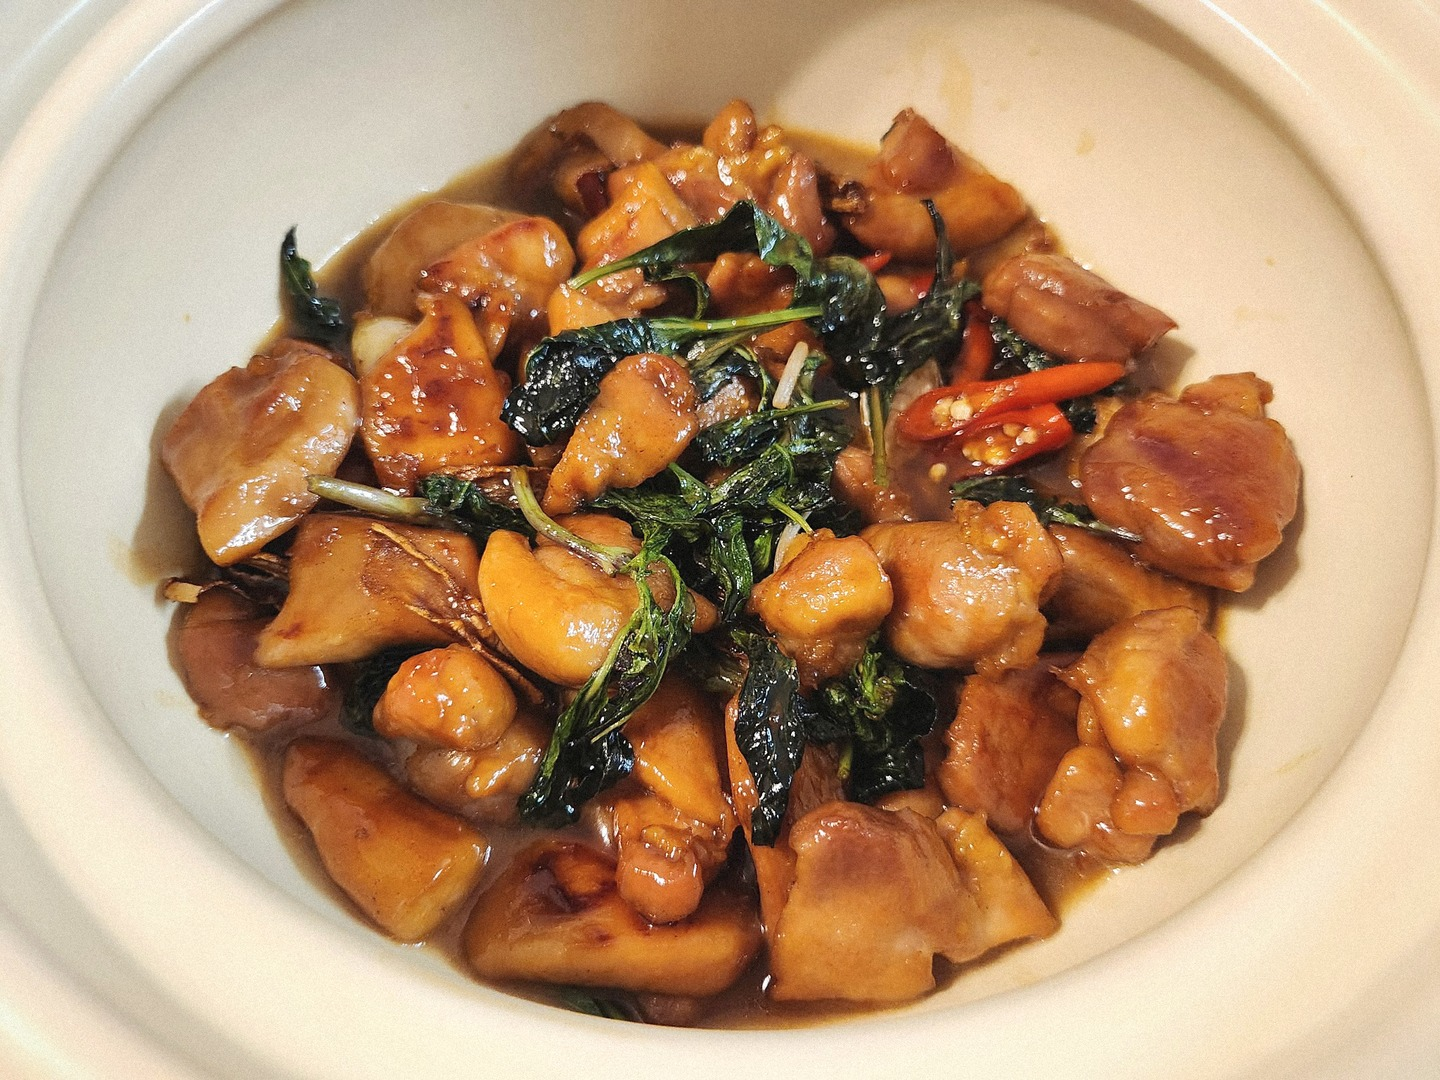
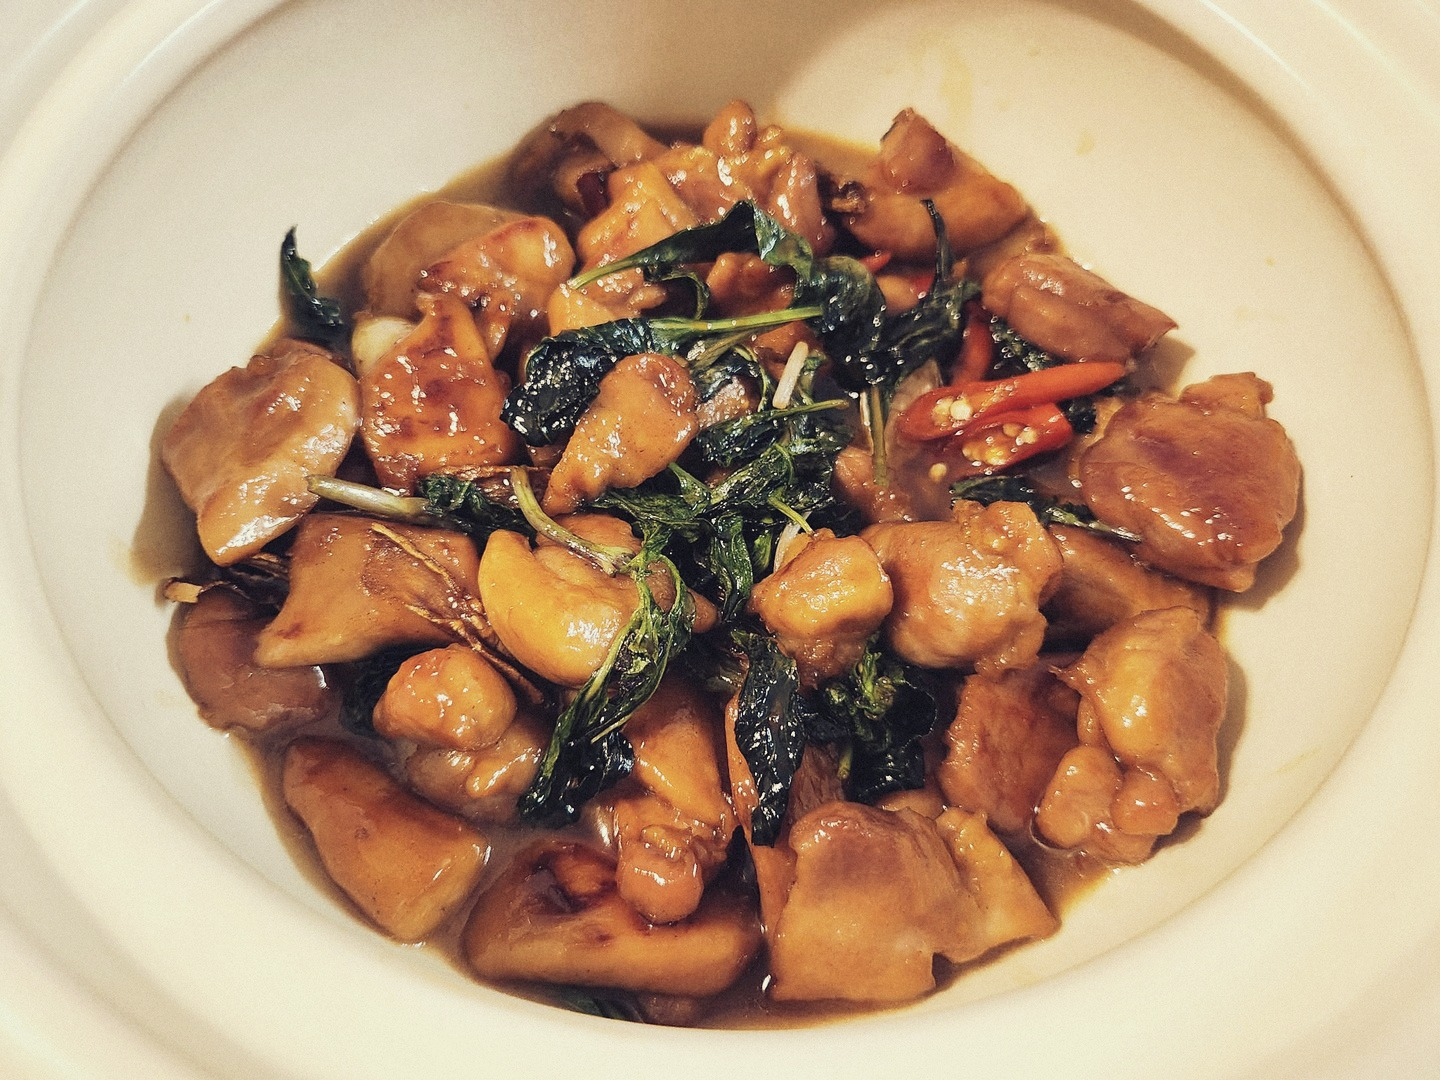
Post at 19:00 US Eastern, start today with 紅燒牛肉麵/乾炒牛河/三杯雞
- Schedule by local date in America/New_York (handles DST); cron runs at
  both 23:00 and 00:00 UTC and the script decides
- Add priority queue, set-priority and schedule commands
- Apply Crema to the three dishes previously left unfiltered

diff --git a/scripts/publish_ig.py b/scripts/publish_ig.py
@@ -1,8 +1,10 @@
 """自動發 IG：每次執行最多發一篇，從 output/ 依序挑還沒發過的成品圖，貼文文字只放菜名。
 
-設計成在 GitHub Actions 上每天跑一次（.github/workflows/ig-publish.yml），由這支腳本
-自己判斷「距離上次發文滿 POST_INTERVAL_DAYS 天了沒」，沒滿就什麼都不做——GitHub 的
-cron 沒辦法直接表達「每 5 天」，所以間隔由這裡控制。只用標準函式庫，Actions 上不用裝套件。
+設計成在 GitHub Actions 上每天跑（.github/workflows/ig-publish.yml），由這支腳本自己判斷
+「是不是到了發文時間」：上次發文那天往後算 POST_INTERVAL_DAYS 天、當地 POST_TIME（預設
+美東 19:00）。GitHub 的 cron 只能寫 UTC、也不會處理夏令時間，所以 workflow 每天跑兩次
+（UTC 23:00 與 00:00，分別是夏令/冬令時間的美東 19:00），時間判斷一律在這裡用當地時區做。
+只用標準函式庫，Actions 上不用裝套件。
 
 發文用 Instagram 官方 Content Publishing API（graph.facebook.com）：
     1) POST /{ig-user-id}/media         image_url + caption -> 建立 container
@@ -11,9 +13,11 @@ cron 沒辦法直接表達「每 5 天」，所以間隔由這裡控制。只用
 API 會自己去抓 image_url，所以圖片必須放在公開網址（IMAGE_BASE_URL，例如 GitHub Pages）。
 
 發文進度記在 output/publish_state.json：
-    {"posted": {"三杯雞": {"posted_at": "...", "media_id": "...", "source": "api"}}, "not_before": null}
-- source 為 "manual" 代表是使用者自己在 Business Suite 發/排的，只是標記起來避免重複發。
-- not_before（ISO 時間）可選：在這個時間之前不自動發，用來避開 Business Suite 已經排好的貼文。
+    {"posted": {"三杯雞": {"posted_at": "...", "media_id": "...", "source": "api"}},
+     "not_before": null, "priority": ["紅燒牛肉麵"]}
+- source 為 "manual" 代表是在別處手動發過的，只是標記起來避免重複發。
+- not_before（ISO 時間）可選：在這個時間之前不自動發。
+- priority 可選：這些菜名插隊排在最前面（依列出的順序），其餘照 manifest 順序。
 
 子命令：
     next                        印出下一篇會發哪張、什麼時候發（不需要 token）
@@ -21,7 +25,8 @@ API 會自己去抓 image_url，所以圖片必須放在公開網址（IMAGE_BAS
     publish [--force]           到時間就發一篇；--force 忽略間隔立即發
     mark-posted <菜名>...       把手動發過/排過的菜名標記成已發
     unmark <菜名>...            取消標記
-    set-not-before <ISO時間>    設定最早自動發文時間（"none" 取消）
+    set-not-before <ISO時間>    設定最早自動發文時間（當地時間；"none" 取消）
+    set-priority <菜名>...      指定優先發的菜名與順序（"none" 清空）
 
 環境變數（publish 需要）：
     IG_USER_ID          Instagram 商業帳號的 ID
@@ -29,6 +34,8 @@ API 會自己去抓 image_url，所以圖片必須放在公開網址（IMAGE_BAS
     IMAGE_BASE_URL      output/ 圖片的公開網址前綴，例如 https://<帳號>.github.io/<repo>/output
     GRAPH_API_VERSION   預設 v26.0
     POST_INTERVAL_DAYS  預設 5
+    POST_TIME           預設 19:00（當地時間）
+    POST_TIMEZONE       預設 America/New_York（使用者在美東，會自動處理夏令/冬令時間）
 """
 
 import argparse
@@ -40,21 +47,21 @@ import time
 import urllib.error
 import urllib.parse
 import urllib.request
-from datetime import datetime, timedelta, timezone
+from datetime import datetime, time as dtime, timedelta
 from pathlib import Path
+from zoneinfo import ZoneInfo
 
 PROJECT_ROOT = Path(__file__).resolve().parent.parent
 OUTPUT_DIR = PROJECT_ROOT / "output"
 MANIFEST_PATH = OUTPUT_DIR / "manifest.json"
 STATE_PATH = OUTPUT_DIR / "publish_state.json"
 
-TAIPEI = timezone(timedelta(hours=8))
-# GitHub cron 常延遲幾十分鐘，留半天緩衝，避免「差 10 分鐘滿 5 天」就整整晚一天
-INTERVAL_SLACK = timedelta(hours=12)
+LOCAL_TZ = ZoneInfo(os.environ.get("POST_TIMEZONE", "America/New_York"))
+POST_TIME = dtime.fromisoformat(os.environ.get("POST_TIME", "19:00"))
 
 
 def _now() -> datetime:
-    return datetime.now(TAIPEI)
+    return datetime.now(LOCAL_TZ)
 
 
 def _load_json(path: Path, default):
@@ -65,6 +72,7 @@ def _load_state() -> dict:
     state = _load_json(STATE_PATH, {})
     state.setdefault("posted", {})
     state.setdefault("not_before", None)
+    state.setdefault("priority", [])
     return state
 
 
@@ -87,22 +95,31 @@ def _caption(label: str) -> str:
     return re.sub(r"\d+$", "", label).strip() or label
 
 
+def _ordered_queue(state: dict) -> list[str]:
+    queue = _queue()
+    first = [l for l in state["priority"] if l in queue]
+    return first + [l for l in queue if l not in first]
+
+
 def _next_label(state: dict) -> str | None:
-    return next((l for l in _queue() if l not in state["posted"]), None)
+    return next((l for l in _ordered_queue(state) if l not in state["posted"]), None)
 
 
 def _next_due(state: dict) -> datetime | None:
-    interval = timedelta(days=float(os.environ.get("POST_INTERVAL_DAYS", "5")))
+    """下次發文時間 = 上次 API 發文那天 + 間隔天數的當地 POST_TIME；用「日期」算而不是精確
+    相隔幾小時，這樣 GitHub cron 延遲幾十分鐘也不會讓下一篇整整晚一天。"""
+    interval = int(os.environ.get("POST_INTERVAL_DAYS", "5"))
     api_times = [
-        datetime.fromisoformat(v["posted_at"])
+        datetime.fromisoformat(v["posted_at"]).astimezone(LOCAL_TZ)
         for v in state["posted"].values()
         if v.get("source") == "api" and v.get("posted_at")
     ]
     candidates = []
     if api_times:
-        candidates.append(max(api_times) + interval - INTERVAL_SLACK)
+        day = max(api_times).date() + timedelta(days=interval)
+        candidates.append(datetime.combine(day, POST_TIME, LOCAL_TZ))
     if state["not_before"]:
-        candidates.append(datetime.fromisoformat(state["not_before"]))
+        candidates.append(datetime.fromisoformat(state["not_before"]).astimezone(LOCAL_TZ))
     return max(candidates) if candidates else None
 
 
@@ -224,9 +241,39 @@ def cmd_set_not_before(args) -> None:
         state["not_before"] = None
     else:
         when = datetime.fromisoformat(args.when)
-        state["not_before"] = (when if when.tzinfo else when.replace(tzinfo=TAIPEI)).isoformat(timespec="minutes")
+        state["not_before"] = (when if when.tzinfo else when.replace(tzinfo=LOCAL_TZ)).isoformat(timespec="minutes")
     _save_state(state)
     print(f"not_before = {state['not_before']}")
+
+
+def cmd_set_priority(args) -> None:
+    state = _load_state()
+    if args.labels == ["none"]:
+        state["priority"] = []
+    else:
+        known = set(_queue())
+        missing = [l for l in args.labels if l not in known]
+        if missing:
+            raise SystemExit(f"output/ 找不到這些菜名：{missing}")
+        state["priority"] = args.labels
+    _save_state(state)
+    print(f"priority = {state['priority']}")
+
+
+def cmd_schedule(args) -> None:
+    """推算接下來每一篇的預計發文日（假設每次都準時發出）。"""
+    state = _load_state()
+    pending = [l for l in _ordered_queue(state) if l not in state["posted"]]
+    due = _next_due(state) or datetime.combine(_now().date(), POST_TIME, LOCAL_TZ)
+    if due < _now():
+        due = datetime.combine(_now().date(), POST_TIME, LOCAL_TZ)
+        if due < _now():
+            due += timedelta(days=1)
+    interval = timedelta(days=int(os.environ.get("POST_INTERVAL_DAYS", "5")))
+    for i, label in enumerate(pending[: args.limit]):
+        print(f"{(due + interval * i):%Y-%m-%d %a %H:%M %Z}  {label}")
+    if len(pending) > args.limit:
+        print(f"...（共 {len(pending)} 張）")
 
 
 def main() -> None:
@@ -246,8 +293,14 @@ def main() -> None:
     p.add_argument("labels", nargs="+")
     p.set_defaults(func=cmd_unmark)
     p = sub.add_parser("set-not-before")
-    p.add_argument("when", help='例如 "2026-10-25T19:00"（台灣時間），或 none')
+    p.add_argument("when", help='例如 "2026-10-25T19:00"（POST_TIMEZONE 的當地時間），或 none')
     p.set_defaults(func=cmd_set_not_before)
+    p = sub.add_parser("set-priority")
+    p.add_argument("labels", nargs="+")
+    p.set_defaults(func=cmd_set_priority)
+    p = sub.add_parser("schedule")
+    p.add_argument("--limit", type=int, default=10)
+    p.set_defaults(func=cmd_schedule)
     args = parser.parse_args()
     args.func(args)
 

diff --git a/CLAUDE.md b/CLAUDE.md
@@ -34,7 +34,7 @@
 - 裁切與濾鏡邏輯共用同一個 `process()` 函式，確保 preview 看到的畫面跟最終輸出完全一致。
 - 濾鏡參數（對比/飽和度/暖色調/暗角/銳化/顆粒感）以常數形式寫在 `process_photo.py` 開頭，參考一般食物攝影 IG 帳號常見做法：飽和度其實是略降而非推高、對比與清晰度放輕、暖色調幅度很小，走真實自然路線而非厚重濾鏡。
 - 裁切邏輯預設一律輸出橫向 4:3（`--orientation` 預設是 `landscape`），直幅原圖也會被裁成橫幅；原圖已經是橫幅 4:3 時通常只需要裁掉一點點多餘的邊。只有使用者明確要求 `--zoom > 1` 時才會額外裁緊、放大主體。
-- **IG Crema 濾鏡（100%）**：使用者要求發文時套 IG 的 Crema 濾鏡，但發文 API 不能套 app 內建濾鏡，所以 `apply_style()` 最後一步用 `apply_crema()` 自己做。參數（`CREMA_SATURATION`、`CREMA_CURVES`）是拿同一張照片的原圖與 IG 網頁版套 Crema 100% 的截圖逐像素擬合出來的，不是目測；強度 `CREMA_STRENGTH = 1.0` 是使用者選定的。2026-10-16 已對佇列中 31 張成品補套 Crema（套用前的版本備份在 `.cache/output_backup_before_crema/`）；已經發出去的 三杯雞、紅燒牛肉麵、乾炒牛河 維持原樣。**`output/` 裡的成品都已經含 Crema，不要再對它們套一次**，新照片走 `process()` 會自動套到。
+- **IG Crema 濾鏡（100%）**：使用者要求發文時套 IG 的 Crema 濾鏡，但發文 API 不能套 app 內建濾鏡，所以 `apply_style()` 最後一步用 `apply_crema()` 自己做。參數（`CREMA_SATURATION`、`CREMA_CURVES`）是拿同一張照片的原圖與 IG 網頁版套 Crema 100% 的截圖逐像素擬合出來的，不是目測；強度 `CREMA_STRENGTH = 1.0` 是使用者選定的。2026-10-16 已對 `output/` 全部 34 張成品補套 Crema（套用前的版本備份在 `.cache/output_backup_before_crema/`）。**`output/` 裡的成品都已經含 Crema，不要再對它們套一次**，新照片走 `process()` 會自動套到。
 - 以上都是固定參數/邏輯，所有照片套用完全相同的值，才能保證 IG 版面風格一致，不是每張個別調整。
 
 ## 自動預覽：scripts/auto_preview.py
@@ -45,9 +45,9 @@
 
 ## 自動發 IG：scripts/publish_ig.py + GitHub Actions
 
-- 使用者要求**完全自動發文**（發出前不再經過人工確認）：GitHub Actions（`.github/workflows/ig-publish.yml`）每天台灣時間 19:00 跑一次 `publish_ig.py publish`，距離上次 API 發文滿 5 天才真的發一篇；貼文文字**只有菜名**（撞名用的尾數字會去掉）。
+- 使用者要求**完全自動發文**（發出前不再經過人工確認）：GitHub Actions（`.github/workflows/ig-publish.yml`）每天跑 `publish_ig.py publish`，每 5 天在**美東時間 19:00**（使用者在美東；`America/New_York`，自動處理夏令/冬令時間）發一篇；貼文文字**只有菜名**（撞名用的尾數字會去掉）。
 - 發文順序 = `manifest.json` 的定案順序，新 finalize 的照片自動排到最後。進度記在 `output/publish_state.json`，Actions 發完會自己 commit 回 repo。
-- 使用者在 Business Suite 手動發過/排過的，用 `mark-posted <菜名>` 標記，避免重發；`set-not-before` 可設定最早自動發文時間，避開已排好的貼文。
+- 使用者 2026-10-16 起**不再用 Meta Business Suite 排程，發文全部交給這套自動流程**。`set-priority` 可指定插隊優先發的菜名；`schedule` 列出接下來的預計發文日；在別處手動發過的用 `mark-posted <菜名>` 標記避免重發；`set-not-before` 設定最早自動發文時間。
 - 用的是 Instagram 官方 Content Publishing API，它要從公開網址抓圖，所以這個 repo 是**公開的** GitHub repo，圖片透過 GitHub Pages 提供（`IMAGE_BASE_URL`）。`input/`、`.cache/`、`.venv/` 不進版控（見 `.gitignore`）。token 放在 GitHub Secrets（`IG_USER_ID`、`IG_ACCESS_TOKEN`），不能寫進任何檔案。
 - **finalize 之後要 commit + push `output/`**，新成品才會進到雲端的發文佇列。
 
